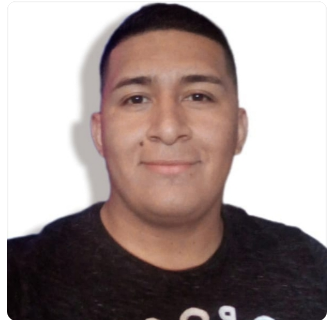
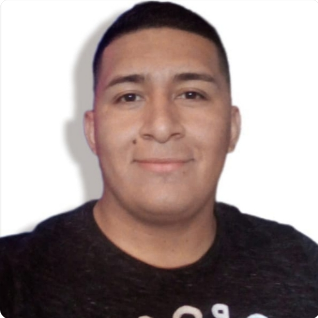
estilos finales

diff --git a/index.html b/index.html
@@ -6,6 +6,7 @@
     
     <title>Equipo numero 06</title>
     <link rel="stylesheet" href="style.css">
+    <link href="https://fonts.googleapis.com/css2?family=Ephesis&family=Open+Sans:wght@300&family=PT+Serif:ital@0;1&family=Playfair+Display&family=Poppins:wght@300;400;600;700&display=swap" rel="stylesheet">
 
 </head>
 
@@ -18,67 +19,69 @@
     <main>
     <nav>
         <ul>
-            <li><a href="#">Home</a></li>
+            
             <li><a href="#Alan Guadalupe Soto Gastelum">Alan Guadalupe Soto Gastelum</a></li>
             <li><a href="#Luis Alberto Lara Gonzalez">Luis Alberto Lara Gonzalez</a></li>
             <li><a href="#Xavier Alberto Castillo Varon">Xavier Alberto Castillo Varon</a></li>
             <li><a href="#Eliecer Santos">Eliecer Santos</a></li>
             <li><a href="#Francisco Alan Geraldo Ceceña">Francisco Alan Geraldo Ceceña</a></li>
             <li><a href="#Shandon Vasquez">Shandon Vasquez</a></li>
+           
         </ul>
     </nav>
 
-    <section id="Alan Guadalupe Soto Gastelum">
+
+    <section class="user" id="Alan Guadalupe Soto Gastelum">
     <h2>Alan Guadalupe Soto Gastelum</h2>
     <h3>Descripcion</h3>
     <p>Mi nombre es Alan Gpe Soto Gastelum, soy de Sinaloa, Mexico. Tengo 32 años, en mis ratos libres me gusta el jugar videojuegos mi deporte favorito es Baseball</p>
-    <img src="imagenes/Captura de pantalla 2023-06-27 125451.png">
+    <center> <img src="imagenes/Captura de pantalla 2023-06-27 125451.png"> </center>
     </section>
+ 
 
-    <section id="Luis Alberto Lara Gonzalez">
+    <section class="user" id="Luis Alberto Lara Gonzalez">
     <h2>Luis Alberto Lara Gonzalez</h2>
     <h3>Descripcion</h3>
     <p>Hola mi nombre es Luis Alberto Lara Gonzalez, soy de Mexico tengo 25 años, me gusta jugar videojuegos en mi computadora, escuchar musica y ver peliculas los fines de semana</p>
-    <img src="imagenes/Captura de pantalla 2023-06-27 125521.png">
+    <center> <img src="imagenes/Captura de pantalla 2023-06-27 125521.png"> </center>
     </section>
 
-    <section id="Xavier Alberto Castillo Varon">
+    <section class="user" id="Xavier Alberto Castillo Varon">
     <h2>Xavier Alberto Castillo Varon</h2>
     <h3>Descripcion</h3>
     <p>¡Hola! Mi nombre es Xavier Alberto Castillo Varón, soy colombiano y me complace compartirles un poco sobre mí en esta presentación.
         Una de mis grandes pasiones es el ciclismo. Me encanta subirme a mi bicicleta y recorrer diferentes rutas, explorando nuevos paisajes y desafiando mis propios límites. El ciclismo me brinda una sensación de libertad y aventura que no encuentro en ninguna otra actividad.
-        Además de ser un apasionado del ciclismo, también soy tecnólogo en ADSI (Análisis y Desarrollo de Sistemas de Información). A lo largo de mi carrera, he adquirido conocimientos intermedios en Python, Django, SQL y Git/GitHub. Estas herramientas me permiten desarrollar aplicaciones web de manera eficiente y efectiva.
-        Además, cuento con conocimientos básicos en HTML, CSS3 y JavaScript. Estos lenguajes de programación me permiten dar vida a mis proyectos web y hacer que sean más atractivos y dinámicos para los usuarios.
-        Una de las cosas que me caracteriza es mi naturaleza autodidacta. Siempre estoy buscando nuevas oportunidades para aprender y mejorar mis habilidades. Me encanta sumergirme en libros, cursos en línea y proyectos personales que me desafíen y me permitan expandir mis conocimientos.
-        En resumen, soy Xavier Alberto Castillo Varón, un colombiano amante del ciclismo, tecnólogo en ADSI con conocimientos intermedios en Python, Django, SQL y Git/GitHub, y habilidades básicas en HTML, CSS3 y JavaScript. Mi enfoque autodidacta me impulsa a aprender y crecer continuamente.
-        Gracias por su atención y espero tener la oportunidad de compartir más sobre mis proyectos y experiencias en el futuro.
+        Además de ser un apasionado del ciclismo, también soy tecnólogo en ADSI (Análisis y Desarrollo de Sistemas de Información).
     </p>
-    <img src="imagenes/Captura de pantalla 2023-06-27 125549.png">
+    <center> <img src="imagenes/Captura de pantalla 2023-06-27 125549.png"> </center>
     </section>
 
-    <section id="Eliecer Santos">
+    <section class="user" id="Eliecer Santos">
     <h2>Eliecer Santos</h2>
     <h3>Descripcion</h3>
     <p>Mi nombre es Eliecer Santos, tengo 29 años soy de Panama, me gustan el espacio el uiverso sus misterios, soy fanticos de las series</p>
-    <img src="imagenes/Captura de pantalla 2023-06-27 125610.png">
+    <center><img src="imagenes/Captura de pantalla 2023-06-27 125610.png"></center>
     </section>
 
-    <section id="Francisco Alan Geraldo Ceceña">
+    <section class="user" id="Francisco Alan Geraldo Ceceña">
     <h2>Francisco Alan Geraldo Ceceña</h2>
     <h3>Descripcion</h3>
     <p>Hola buenas tardes, soy Alan Geraldo, soy de Baja California sur, me gustan los videojuegos, pasar tiempo con mis amigos y soy una persona que le gusta aprender cosas nuevas.</p>
-    <img src="imagenes/Captura de pantalla 2023-06-27 125632.png">
+    <center><img src="imagenes/Captura de pantalla 2023-06-27 125632.png"></center>
     </section>
     
-    <section id="Shandon Vasquez">
+    <section class="user" id="Shandon Vasquez">
     <h2>Shandon Vasquez</h2>
     <h3>Descripcion</h3>
     <p>Mi  nombre es Shandon, 22 años soy de Guatemala  y amo viajar y ver la naturaleza  considero que soy un amante de la naturaleza y sus misterios</p>
-    <img src="imagenes/Captura de pantalla 2023-06-27 125653.png">
+    <center><img src="imagenes/Captura de pantalla 2023-06-27 125653.png"></center>
     </section>
 
     </main>
+    
+    <div class="container">
+        <footer>Academlo @ 2023</footer>
+    </div>
 
-    <footer>@Academlo</footer>
-</body>
+    </body>
 </html>

diff --git a/style.css b/style.css
@@ -1,11 +1,43 @@
+nav a{
+   text-decoration:none;
+   color:inherit;
+   font: size 14px;
+   } 
+
+   nav li{
+   display:inline-block;
+   width: 14%;
+   padding:5px 10px;
+   background-color: whitesmoke;
+   border: 8px outset papayawhip;
+   text-align:center;
+   color:darkred;
+
+   }
+   
+   nav li:hover{
+      color: black;
+      transition: color .3s;
+   }
+
+   nav ul{
+      padding: 10px;
+      top: 0;
+      position: sticky;
+   }
+
 body{
-    background-color:thistle;
+   background-color:darkturquoise;
+   display: flexbox;
+   flex-wrap: wrap;
 }
 
 h1 {
-    border: 4px solid red;
-    background-color: blue;
+    background-color:goldenrod;
+    box-shadow: 0px 0px 0px 10px goldenrod;
     text-align-last: center;
+    font-family:monospace;
+    margin: auto;
  }
 h2{
     text-align: center;
@@ -13,31 +45,46 @@ h2{
     border: 15px;
     margin: 15px;
     text-decoration-line: underline;
+    color: lavenderblush;
 }
 
  a{
     color: maroon;
  }
 
- img{
-    border-radius: 250px;
-    align-content: center;
- }
+.user {
+   border: 5px solid darkcyan;
+   margin: 30px;
+   padding: 10px;
+   box-shadow: 10px 10px 0px 10px darkslategray;
+   border-radius: 50px;
+   background-image: url(imagenes/fondo.png);
+}
+
+p{
+   text-align: justify;
+   font-family:Verdana, Geneva, Tahoma, sans-serif;
+   color: lavenderblush;
+   padding: 40px;
+   
+}
 
  footer{
     padding: 20px;
     border: 20px;
-    margin: 20px;
+    margin: 20px solid;
     text-align: center;
+    background-color: gray;
  }
 
- p{
-    text-align: justify;
- }
 
  img{
-    width: 150px;
-    height: 150px;
-    animation: infinite;
-
+    width: 250px;
+    height: auto;
+    position: relative;
+    border-radius: 50px;
+    align-content: center;
+    align-items: center;
+    display: flexbox;
+    box-shadow: 0px 0px 30px 10px black;
  }
